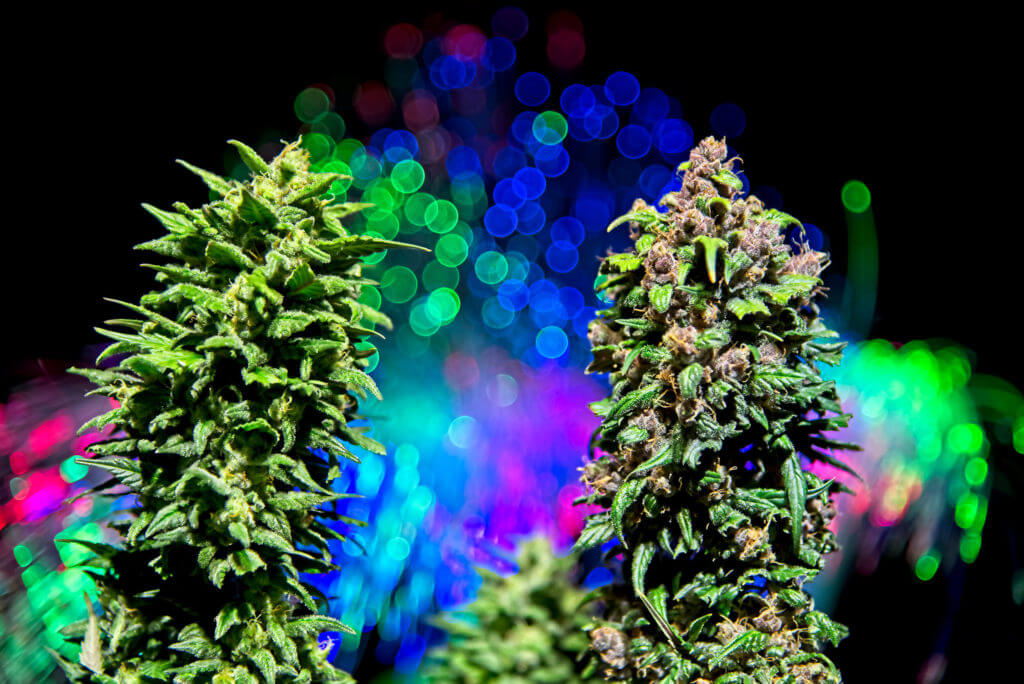
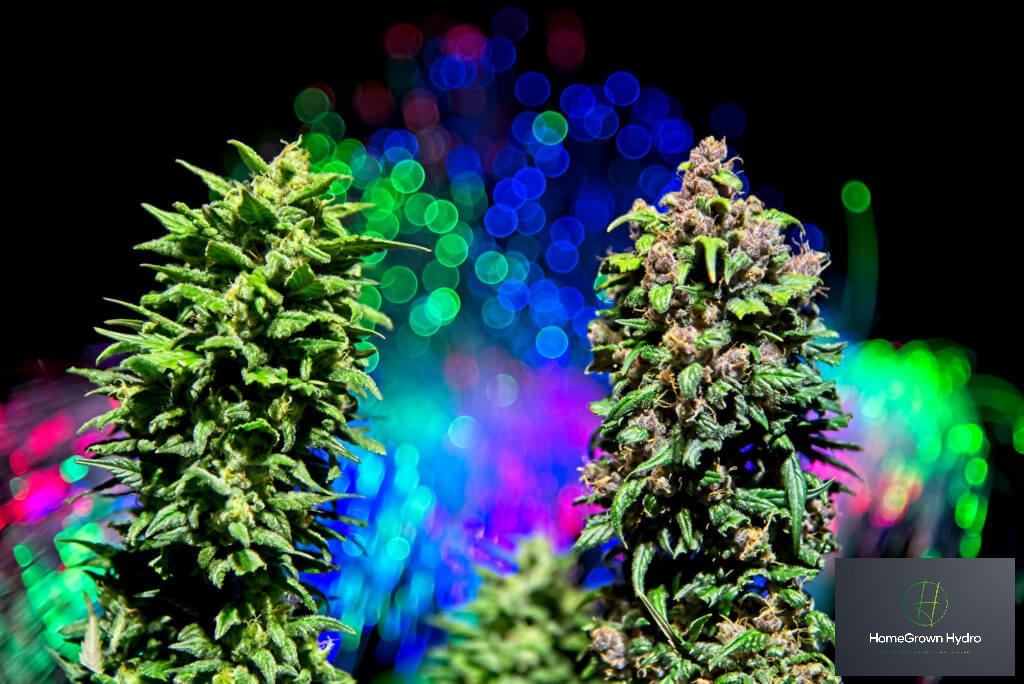
updates

diff --git a/public/index.html b/public/index.html
@@ -2,11 +2,17 @@
 <html lang="en">
   <head>
     <meta charset="utf-8" />
-    <link rel="icon" href="%PUBLIC_URL%/favicon.ico" />
+    <link rel="icon" href="%PUBLIC_URL%/weed.png" />
     <meta name="viewport" content="width=device-width, initial-scale=1" />
     <meta name="theme-color" content="#000000" />
-    <meta name="description" content="Web site created using create-react-app" />
-    <link rel="apple-touch-icon" href="%PUBLIC_URL%/logo192.png" />
+    <meta name="description" content="Looking for an easy and convenient way to grow your own marijuana at home? HomeGrown Hydro offers a complete hydroponics kit that lets you plug in and grow pot with ease. Order now and start growing your own dank buds today!" />
+    <meta name="keywords" content="Hydroponics, Growing Marijuana, HomeGrown Hydro, Hydroponics Kit, Easy to Use, Plug and Grow, Dank Buds, Home Growing, Indoor Gardening" />
+    <meta property="og:title" content="HomeGrown Hydro - The Ultimate Hydroponics Kit for Growing Marijuana at Home" />
+    <meta property="og:description" content="Looking for an easy and convenient way to grow your own marijuana at home? HomeGrown Hydro offers a complete hydroponics kit that lets you plug in and grow pot with ease. Order now and start growing your own dank buds today!" />
+    <meta property="og:image" content="%PUBLIC_URL%/weed.png" />
+    <meta property="og:url" content="https://www.thchomegrown.com" />
+    <meta property="og:type" content="website" />
+    <link rel="apple-touch-icon" href="%PUBLIC_URL%/weed.png" />
     <!--
       manifest.json provides metadata used when your web app is installed on a
       user's mobile device or desktop. See https://developers.google.com/web/fundamentals/web-app-manifest/
@@ -21,7 +27,9 @@
       work correctly both with client-side routing and a non-root public URL.
       Learn how to configure a non-root public URL by running `npm run build`.
     -->
-    <title>React App</title>
+    <title>HomeGrown Hydro - The Ultimate Hydroponics Kit for Growing Marijuana at Home</title>
+  </head>
+  <body>
   </head>
   <body>
     <noscript>You need to enable JavaScript to run this app.</noscript>

diff --git a/src/Components/PotCenterfold.js b/src/Components/PotCenterfold.js
@@ -1,0 +1,33 @@
+import ImageGallery from 'react-image-gallery';
+import GrowRoom from '../pictures/baller-grow-room.webp'
+import GrowRoomSmall from '../pictures/baller-grow-room-small.jpg'
+import GrowingCanabisLight from '../pictures/Growing-Cannabis-light.jpg'
+import GrowingCanabisLightSm from '../pictures/Growing-Cannabis-light-smaller.jpg'
+import Flower from '../pictures/flower.jpg'
+import FlowerSm from '../pictures/flower-small.jpg'
+import GeorgePot from '../pictures/George-pot.png'
+import George from '../pictures/George-small.png'
+import Rainbow from '../pictures/rainbow.jpg'
+import RainbowSm from '../pictures/rainbow-sm.jpg'
+import Lights from '../pictures/lights.jpg'
+import LightsSm from '../pictures/lights-sm.jpg'
+import '../scss/imageGallery.scss'
+
+const images = [{original: GrowRoom, thumbnail: GrowRoomSmall},
+                {original: GrowingCanabisLight, thumbnail: GrowingCanabisLightSm},
+                {original: Flower, thumbnail: FlowerSm},
+                {original: GeorgePot, thumbnail: George},
+                {original: Rainbow, thumbnail: RainbowSm},
+                {original: Lights, thumbnail: LightsSm}    
+            ];
+
+const PotCenterfold =()=>{
+
+    return(<>
+            
+                <ImageGallery autoPlay={true} items={images} />
+            
+           </>)
+}
+
+export default PotCenterfold;

diff --git a/src/Components/Reveal/why-styles.css b/src/Components/Reveal/why-styles.css
@@ -3,8 +3,7 @@
     display: flex;
     flex-direction: column;
     justify-content: center;
-    margin-top: 2rem;
-
+    margin-top: 3rem;
   }
   
   .reveal-y-content {
@@ -17,15 +16,19 @@
     flex-direction: column;
     justify-content: center;
     left: 50%;
-    bottom: 60px !important;
+    bottom: 10%;   
+    
     transform: translate(-50%, -50%) scale(0, 1);
     transition: transform 0.5s cubic-bezier(0.5, 0, 0, 1.3) 0.3s;
     z-index: 1;
     color: #fff;
     padding: 1rem;
-    border-radius: 5px;
+    border-radius: 15%;
     box-shadow: 0 0 10px rgba(0, 0, 0, 0.3);
+
+    
   } 
+ 
 
   .reveal-y-content.revealed > *  {
     display: flex;
@@ -45,8 +48,7 @@
     transition: transform 0.5s cubic-bezier(0.5, 0, 0, 1.3) 0s;
     z-index: 0;
     width: 100%;
-    height: 50%;
-    background-image: url("https://picsum.photos/1200/800");
+    height: 100%;
     background-size: cover;
     background-position: center;
     clip-path: polygon(0 0, 100% 0, 100% 100%, 0 calc(100% - 30px));
@@ -64,14 +66,15 @@
     padding: 1rem;
     background-color: #000;
     color: #fff;
-    border: none;
+    border: orange;
     border-radius: 5px;
     cursor: pointer;
     z-index: 2;
     font-size: 1.2rem;
     font-weight: bold;
+    color: orange
   }
-  
+
   .toggle-y-button:hover {
     background-color: #555;
   }

diff --git a/src/Components/Kits.js b/src/Components/Kits.js
@@ -1,0 +1,28 @@
+import { Routes, Route, Outlet } from 'react-router-dom';
+import Mock from '../pictures/mock.jpg'
+import DogMock from '../pictures/dogmock.jpg'
+import Kit from './KitCard'
+
+const hydrokits = [
+    {id: 1, img: Mock, alt: "A hydroponics kit that is plug and grow", des: "This kit has Reverse Osmosis, Grow Lights, Grow Timer, Water Pump, Hydro Aquaducts for 2 plants", title: "The Professional Stoner"},
+    {id: 2, img: DogMock, alt: "A hydroponics kit that is plug and grow", des: "This kit has Reverse Osmosis, Grow Lights, Grow Timer, Water Pump, Hydro Aquaducts for 4 plants", title: "The Dogg"}
+
+]
+
+const Kits =()=>{
+    const makeKitCards = () =>{
+        return hydrokits.map((k, i) =><span>
+            <Kit id={k.id} img={k.img} alt={k.alt} title={k.title} des={k.des} key={i} />
+            </span>)
+    }
+
+    return(<div className="d-flex flex-column justify-content-center mx-auto">
+            <h1 className="mx-auto text-success">Grow Kits</h1>
+            <p className="mx-auto fw-bolder fs-3 text-danger">Become your own Dispensary</p>
+            <p className="mx-auto fw-bolder fs-4 text-warning">Grow all the marijuana you want</p>
+            {makeKitCards()}
+            <Outlet />
+           </div>)
+}
+
+export default Kits;

diff --git a/src/Components/Reveal/WhyReveal.js b/src/Components/Reveal/WhyReveal.js
@@ -11,17 +11,16 @@ const RevealWhy = () => {
   };
 
   return (
-    <div className="reveal-y-container mx-auto my-1">
-      <button className="toggle-y-button" onClick={handleToggle}>
+    <div className="reveal-y-container mx-auto my-1 pt-4">
+      <button className="radius toggle-y-button " onClick={handleToggle}>
       {revealed ? "Hide" : "Why"}
       </button>
       <div className={`reveal-y-content ${revealed ? "revealed" : ""}`}>
         <h2>Why Hydroponics is Amazing</h2>
-        <p>Hydroponics can save you as much as 2000$ a year</p>
-        <p>Hydroponics can grow as much as you want</p>
-        <p>Hydroponics allows for year-round blooming</p>
+        <p>Hydroponics can save you as much as 5000$ a year</p>
+        <p>Make car payments/house payments instead of buying pot</p>
+        <p>Hydroponics can grow you much as you want</p>
         <p>Become your own Dispensary</p>
-        <p>No Government between you and your pot</p>
       </div>
       <div className={`ybackground ${revealed ? "revealed" : ""}`} />
     </div>

diff --git a/src/WelcomeGreenRoom.js b/src/WelcomeGreenRoom.js
@@ -7,6 +7,8 @@ import Users from './Users'
 import PotCards from './PotCards'
 import Contact from './Components/Contact'
 import Sci from './Components/Sci'
+import Kits from './Components/Kits'
+import Kit from './Components/KitCard'
 
 const WelcomeGreenRoom = () =>{
 
@@ -18,6 +20,11 @@ const WelcomeGreenRoom = () =>{
                     <Route index element={<PotCards />} />
                     <Route path="/" element={<PotCards />} />
                     <Route path="/hydro" element={<Hydro />} />
+                    {/* <Route path="/kits" element={<Kits />} /> */}
+                    <Route path="/kits" element={<Kits />}  />
+                        
+                    <Route path="/kits/:kitId" element={<Kit />}/>
+                    {/* </Route>  */}
                     <Route path="users" element={<Users />} />
                     <Route path="/sci" element={<Sci />} />
                     <Route path="/contact" element={<Contact />} />

diff --git a/src/Hydro.js b/src/Hydro.js
@@ -1,13 +1,17 @@
 import { Outlet } from "react-router-dom"
 import './scss/hydroponics.scss'
+import PotCenterfold from "./Components/PotCenterfold"
 
 const Hydro = () =>{
 
     return(<>
             <div className="hydroponics mx-auto">
-                <p>Filler</p>
-                <p>More Filler</p>
-                <p>This looks cool tho</p>
+                <h1 className="text-success">Grow Kits for Marijuana</h1>
+                <p className="text-success">From seed to smoke grow your own legal dope</p>
+                <p className="text-danger">We take the sweat, blood, and tears out of hydroponics.</p>
+                <p className="text-info">You'll get up and growing faster and growing pot instantly</p>
+                <p className="text-info">Our plug and grow system has been designed to plug in...and grow...that's it</p>
+                <PotCenterfold />
             </div>
             <Outlet />
            </>)

diff --git a/src/Components/KitCard.js b/src/Components/KitCard.js
@@ -1,0 +1,22 @@
+import {
+    useParams, Link, Outlet
+  } from 'react-router-dom';
+  
+import '../scss/index.scss'
+import '../scss/kit.scss'
+
+const Kit = ({key, img, alt, des, title, id}) =>{
+    
+    const {kitId} = useParams();
+    debugger
+    return(<div key={key} className="d-flex flex-column justify-content-center mx-auto text-warning hydrokit">
+                <h2 className="mx-auto fw-bolder fst-italic">{title}</h2>
+                <p className="mx-auto fs-2 fw-bolder text-black">{des}</p> 
+                <img src={img} alt={alt} className="mx-auto rounded-circle" width={"200px"} height={"200px"}/>
+                <Link className="mx-auto" to={`/kits/${id}`}>{title}</Link>
+                <Link className="mx-auto" to="/kits">Back</Link>
+                <Outlet />
+          </div>)
+}
+
+export default Kit;

diff --git a/src/scss/hydroponics.scss b/src/scss/hydroponics.scss
@@ -18,14 +18,14 @@ $bestHydroKit: '../pictures/HydroponicFactory.webp';
     flex-direction: column;
     justify-content: center;
     width: 33%;
-
+    p, h1{
+      font-weight: bolder;
+      align-self: center;
+      align-content: center;  
+    }
     @media only screen and (min-width: $small) and (max-width: $medium){
-        .hydroponics{
-            background-size: cover !important;
-            border-color: red;
-            border-style: dashed;
-            border-width: 5px;
-        }
+       width: 90%;
+       height: 100%;
     }
 
 }
@@ -110,6 +110,9 @@ span:hover {cursor: pointer !important;}
     }
 
     @media only screen and (min-width: $small) and (max-width: $medium){ 
-        width: 75%;
+        width: 85%;
+        height: 90%;
+        margin-top: 1rem;
+        padding-top: 1rem;
     }
 }

diff --git a/src/scss/index.scss b/src/scss/index.scss
@@ -8,6 +8,17 @@ $iphone-14w: 393px;
 $galaxy-h: 780px;
 $galaxy-w: 360px;
 
+body{
+    height: 100Vh;
+    background: url("../pictures/bluewater.webp") no-repeat center fixed;
+    -webkit-background-size: cover;
+    -moz-background-size: cover;
+    -o-background-size: cover;
+    @media only screen and (min-width: $small) and (max-width: $medium){
+        width: 100vw !important;
+        
+    }
+}
 #root{
     display: flex;
     flex-direction: column;
@@ -20,5 +31,13 @@ $galaxy-w: 360px;
     padding: 0% !important;
     @media only screen and (min-width: $small) and (max-width: $medium){
         width: 100vw !important;
+        
     }
+}
+
+.error{
+    background-size: cover !important;
+    border-color: red;
+    border-style: dashed;
+    border-width: 5px;
 }

diff --git a/src/scss/greenroom.scss b/src/scss/greenroom.scss
@@ -1,3 +1,5 @@
+$farm: '../pictures/potfarm.png';
+$verticalPot: "../pictures/vertical-cannabis-growing-system.jpg";
 $small: 360px;
 $medium: 700px;
 $large: 2000px;
@@ -11,7 +13,7 @@ $galaxy-w: 360px;
 .greenroom{
     display: flex;
     flex-direction: column;
-    background: url("../pictures/calm.jpg") no-repeat center fixed, url("../pictures/vertical-cannabis-growing-system.jpg") no-repeat center fixed;
+    background: url("../pictures/calm.jpg") no-repeat center fixed, url($farm) no-repeat center fixed;
     background-blend-mode: hue;
     -webkit-background-size: cover;
     -moz-background-size: cover;

diff --git a/src/scss/navbar.scss b/src/scss/navbar.scss
@@ -1,4 +1,7 @@
 $ahoy: '../pictures/navigation.jpg';
+$farm: '../pictures/potfarm.png';
+$hex: '../pictures/hex.jpg';
+
 $small: 360px;
 $medium: 700px;
 $medium-large: 900px;
@@ -11,9 +14,10 @@ $galaxy-h: 780px;
 $galaxy-w: 360px;
 
 .Nav{
-    background-image: url($ahoy), url("../pictures/hex.jpg"); 
-    background-position: center;
+    background-image: url($farm), url($hex); 
+    background-position: left !important;
     height: 15vh !important;
+    border-radius: 15%;
     background-blend-mode: lighten !important;
     -webkit-background-size: cover;
     -moz-background-size: cover;
